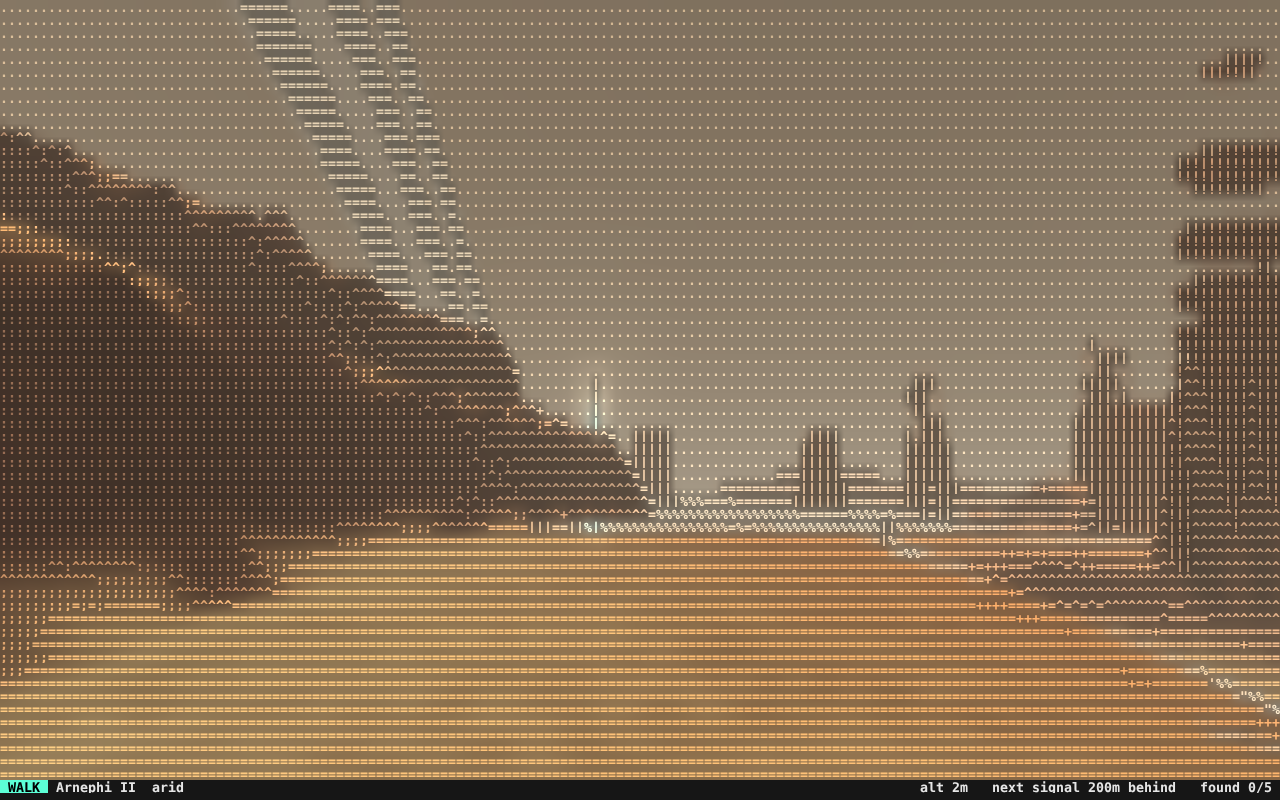
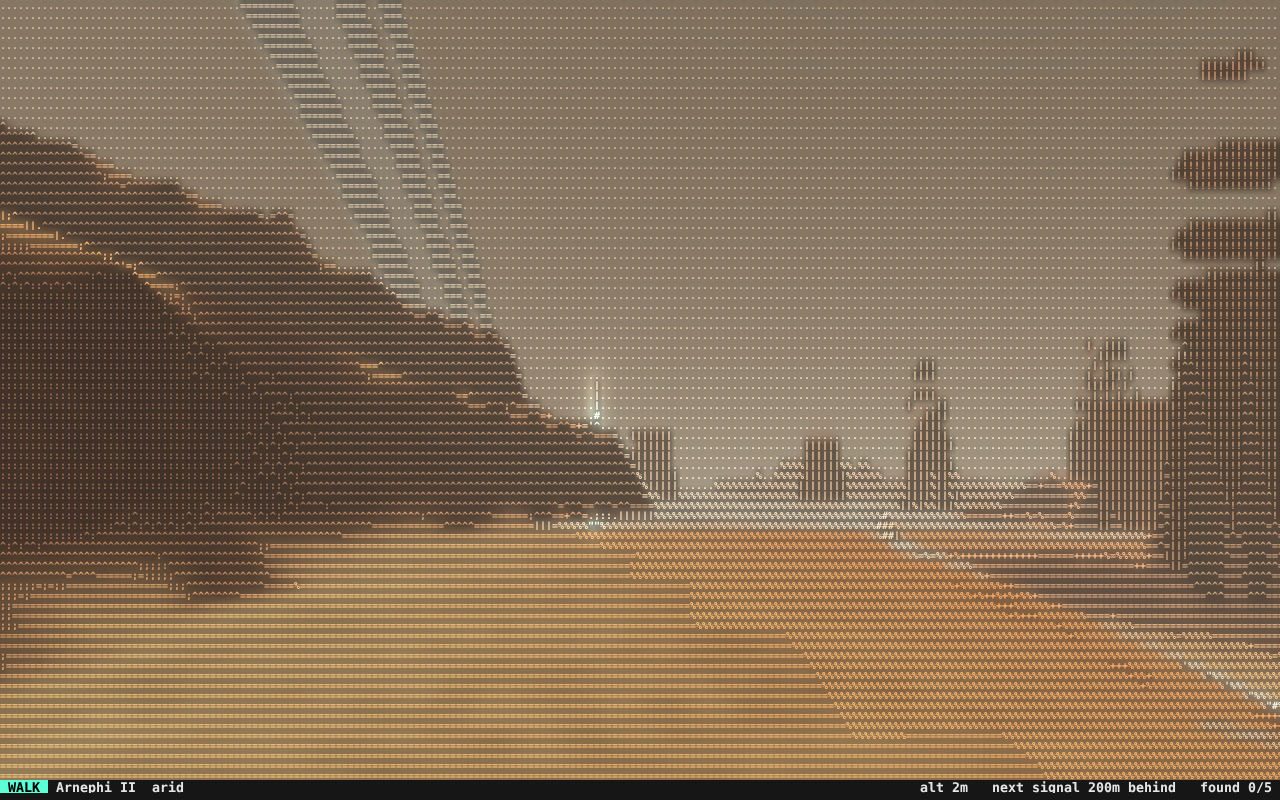
Smaller characters, with the interface on its own readable grid
- the picture's characters are 6px by default (5px on high-density
  screens), down from 8 and 7; - and = still change it, and a size you
  pick is never changed back by the slowdown guard
- the status line, messages and help sit on a separate 8px grid with
  their own font, so they stay readable however fine the picture gets
- on narrow screens the status line leaves out its least important
  parts instead of overlapping itself, and long messages wrap

diff --git a/index.html b/index.html
@@ -802,12 +802,12 @@ void main() {
 // pass 3: stamp the characters at full resolution, add bloom, lay the interface text on top
 const FINAL = `#version 300 es
 precision highp float;
-uniform sampler2D uScene, uC0, uC1, uGlow, uAtlas, uText;
-uniform vec2 uRes, uCell, uGrid, uAtlasGrid;
+uniform sampler2D uScene, uC0, uC1, uGlow, uAtlas, uText, uFont;
+uniform vec2 uRes, uCell, uGrid, uAtlasGrid, uTextCell;
 uniform float uRaw;
 out vec4 o;
 
-float ink(int g, vec2 f) { return texture(uAtlas, (vec2(float(g % 16), float(g / 16)) + f) / uAtlasGrid).r; }
+float ink(sampler2D atlas, int g, vec2 f) { return texture(atlas, (vec2(float(g % 16), float(g / 16)) + f) / uAtlasGrid).r; }
 
 void main() {
   vec2 px = vec2(gl_FragCoord.x, uRes.y - gl_FragCoord.y);
@@ -815,19 +815,20 @@ void main() {
   ivec2 ci = ivec2(cf.x, uGrid.y - 1. - floor(cf.y));
   vec2 uv = vec2(cf.x, uGrid.y - cf.y) / uGrid;
 
-  // text styles: 1 plain, 2 dim, 3 status bar, 4 highlighted block, 5 accent, 6 dim on the bar
-  ivec2 tx = ivec2(texelFetch(uText, ivec2(cf), 0).rg * 255. + .5);
+  // interface text, on its own grid. styles: 1 plain, 2 dim, 3 status bar, 4 highlighted block, 5 accent, 6 dim on the bar
+  vec2 tf = px / uTextCell;
+  ivec2 tx = ivec2(texelFetch(uText, ivec2(tf), 0).rg * 255. + .5);
   if (tx.y > 0) {
     const vec3 accent = vec3(.36, 1., .84);
     vec3 fg = tx.y == 2 || tx.y == 6 ? vec3(.46) : tx.y == 4 ? vec3(0.) : tx.y == 5 ? accent : vec3(.9);
     vec3 bg = tx.y == 4 ? accent : tx.y == 3 || tx.y == 6 ? vec3(.085) : vec3(0.);
-    o = vec4(mix(bg, fg, ink(tx.x, f)), 1.);
+    o = vec4(mix(bg, fg, ink(uFont, tx.x, fract(tf))), 1.);
     return;
   }
   if (uRaw > .5) { o = vec4(texture(uScene, uv).rgb, 1.); return; }
   vec4 a = texelFetch(uC0, ci, 0);
   // the colour behind the characters is blended between cell centres, so it has no steps
-  vec3 col = mix(texture(uC1, uv).rgb, a.rgb, ink(int(a.a * 255. + .5), f));
+  vec3 col = mix(texture(uC1, uv).rgb, a.rgb, ink(uAtlas, int(a.a * 255. + .5), f));
   col += textureLod(uGlow, uv, 1.).rgb * .45 + textureLod(uGlow, uv, 2.5).rgb * .35 + textureLod(uGlow, uv, 4.).rgb * .25;
   o = vec4(col, 1.);
 }`;
@@ -845,6 +846,7 @@ texture(11, gl.TEXTURE_CUBE_MAP, gl.NEAREST);                // material
 texture(12, gl.TEXTURE_2D, gl.NEAREST);                      // character per material and brightness
 texture(13, gl.TEXTURE_2D, gl.NEAREST);                      // interface text
 texture(14, gl.TEXTURE_2D, gl.NEAREST);                      // characters each material may use
+texture(15, gl.TEXTURE_2D, gl.NEAREST);                      // interface font
 gl.pixelStorei(gl.UNPACK_ALIGNMENT, 1);
 {
   const n = new Uint8Array(32 * 32 * 32), r = mulberry(7);
@@ -882,12 +884,13 @@ const EDGES = '_/\\|()\'",.^-~';
 const GLYPHS = [...new Set(RAMPS.join('') + EDGES)].join('');
 const FONT = GLYPHS + Array.from({ length: 95 }, (_, i) => String.fromCharCode(32 + i)).filter(c => !GLYPHS.includes(c)).join('');
 const MONO = 'ui-monospace, SFMono-Regular, Menlo, Consolas, "DejaVu Sans Mono", monospace';
-const view = { size: 0, cw: 8, ch: 13, cols: 0, rows: 0, ss: 2, raw: false, ink: 1 };
-let text = new Uint8Array(0);   // glyph and style for every cell of interface text
+const view = { size: 0, picked: false, cw: 6, ch: 10, cols: 0, rows: 0, ss: 2, raw: false, ink: 1 };
+// interface text sits on its own, coarser grid so it stays readable however small the picture's characters are
+const tgrid = { cw: 8, ch: 13, cols: 0, rows: 0 };
+let text = new Uint8Array(0);   // glyph and style for every cell of the interface grid
 
-// draws the font into an atlas and measures how much ink each glyph puts in the six regions of its cell
-function buildAtlas() {
-  const { cw, ch } = view, n = GLYPHS.length;
+// draws FONT into a 16 x 6 atlas of cw x ch cells
+function drawFont(cw, ch) {
   const c = document.createElement('canvas');
   c.width = cw * 16; c.height = ch * 6;
   const g = c.getContext('2d', { willReadFrequently: true });
@@ -905,7 +908,13 @@ function buildAtlas() {
     g.fillText(FONT[i], x + cw / 2, y + base);
     g.restore();
   }
-  const img = g.getImageData(0, 0, c.width, c.height).data;
+  return c;
+}
+
+// builds the picture's atlas and measures how much ink each glyph puts in the six regions of its cell
+function buildAtlas() {
+  const { cw, ch } = view, n = GLYPHS.length, c = drawFont(cw, ch);
+  const img = c.getContext('2d').getImageData(0, 0, c.width, c.height).data;
   const shapes = new Float32Array(n * 6), mean = new Float32Array(n);
   let max = 0;
   for (let i = 0; i < n; i++) for (let k = 0; k < 6; k++) {
@@ -951,18 +960,24 @@ function buildAtlas() {
   upload(14, gl.RED, n, RAMPS.length, allow);
   gl.activeTexture(gl.TEXTURE9);
   gl.texImage2D(gl.TEXTURE_2D, 0, gl.RGBA8, gl.RGBA, gl.UNSIGNED_BYTE, c);
+  gl.activeTexture(gl.TEXTURE15);
+  gl.texImage2D(gl.TEXTURE_2D, 0, gl.RGBA8, gl.RGBA, gl.UNSIGNED_BYTE, drawFont(tgrid.cw, tgrid.ch));
 }
 
 function resize() {
   const dpr = Math.min(devicePixelRatio || 1, 2);
   canvas.width = Math.floor(innerWidth * dpr);
   canvas.height = Math.floor(innerHeight * dpr);
-  view.size = view.size || (dpr > 1.5 ? 7 : 8);
+  view.size = view.size || (dpr > 1.5 ? 5 : 6);
   view.cw = Math.round(view.size * dpr);
   view.ch = Math.round(view.cw * 1.6);
   view.cols = Math.ceil(canvas.width / view.cw);
   view.rows = Math.ceil(canvas.height / view.ch);
-  text = new Uint8Array(view.cols * view.rows * 2);
+  tgrid.cw = Math.round(8 * dpr);
+  tgrid.ch = Math.round(tgrid.cw * 1.6);
+  tgrid.cols = Math.ceil(canvas.width / tgrid.cw);
+  tgrid.rows = Math.ceil(canvas.height / tgrid.ch);
+  text = new Uint8Array(tgrid.cols * tgrid.rows * 2);
   const alloc = (unit, w, h) => {
     gl.activeTexture(gl.TEXTURE0 + unit);
     gl.texImage2D(gl.TEXTURE_2D, 0, gl.RGBA8, w, h, 0, gl.RGBA, gl.UNSIGNED_BYTE, null);
@@ -1119,8 +1134,10 @@ function press(k) {
   if (k === 'v') view.raw = !view.raw;
   if (k === 'm') mute();
   if (k === '-' || k === '_' || k === '=' || k === '+') {
-    view.size = clamp(view.size + (k === '-' || k === '_' ? 1 : -1), 4, 16);
+    view.size = clamp(view.size + (k === '-' || k === '_' ? 1 : -1), 3, 16);
+    view.picked = true;   // a size the player chose is never changed behind their back
     resize();
+    say(`${view.cols} x ${view.rows} characters`, 2);
   }
   if (mode !== 'fly' && mode !== 'walk') return;
   if (k === 'f') mode === 'fly' ? land() : board();
@@ -1328,12 +1345,13 @@ function drawScene() {
 function drawScreen() {
   const { cols, rows, cw, ch } = view, u = final.u;
   gl.activeTexture(gl.TEXTURE13);
-  gl.texImage2D(gl.TEXTURE_2D, 0, gl.RG8, cols, rows, 0, gl.RG, gl.UNSIGNED_BYTE, text);
+  gl.texImage2D(gl.TEXTURE_2D, 0, gl.RG8, tgrid.cols, tgrid.rows, 0, gl.RG, gl.UNSIGNED_BYTE, text);
   gl.bindFramebuffer(gl.FRAMEBUFFER, null);
   gl.viewport(0, 0, canvas.width, canvas.height);
   gl.useProgram(final.p);
-  gl.uniform1i(u.uScene, 4); gl.uniform1i(u.uC0, 6); gl.uniform1i(u.uC1, 7); gl.uniform1i(u.uGlow, 8); gl.uniform1i(u.uAtlas, 9); gl.uniform1i(u.uText, 13);
+  gl.uniform1i(u.uScene, 4); gl.uniform1i(u.uC0, 6); gl.uniform1i(u.uC1, 7); gl.uniform1i(u.uGlow, 8); gl.uniform1i(u.uAtlas, 9); gl.uniform1i(u.uText, 13); gl.uniform1i(u.uFont, 15);
   gl.uniform2f(u.uRes, canvas.width, canvas.height);
+  gl.uniform2f(u.uTextCell, tgrid.cw, tgrid.ch);
   gl.uniform2f(u.uCell, cw, ch);
   gl.uniform2f(u.uGrid, cols, rows);
   gl.uniform2f(u.uAtlasGrid, 16, 6);
@@ -1341,12 +1359,12 @@ function drawScreen() {
   gl.drawArrays(gl.TRIANGLES, 0, 3);
 }
 
-// interface text is written straight into the character grid
+// writes interface text into its grid
 function put(x, y, str, style = 1) {
-  if (y < 0 || y >= view.rows) return;
+  if (y < 0 || y >= tgrid.rows) return;
   for (let i = 0; i < str.length; i++) {
-    const cx = Math.round(x) + i, k = (y * view.cols + cx) * 2;
-    if (cx < 0 || cx >= view.cols) continue;
+    const cx = Math.round(x) + i, k = (y * tgrid.cols + cx) * 2;
+    if (cx < 0 || cx >= tgrid.cols) continue;
     text[k] = Math.max(FONT.indexOf(str[i]), 0);
     text[k + 1] = style;
   }
@@ -1358,11 +1376,11 @@ const HELP = [
   ['space c', 'up and down, jump'],
   ['q e', 'roll'],
   ['shift', 'boost, run'],
-  ['f', 'land and step out, board and lift off'],
+  ['f', 'land, or board the ship'],
   ['n', 'next planet'],
   ['p', 'save the view as a text file'],
   ['v', 'show the render under the text'],
-  ['- =', 'text size'],
+  ['- =', 'bigger or smaller characters'],
   ['m', 'sound'],
   ['i', 'frame rate'],
 ];
@@ -1377,34 +1395,61 @@ function nextSignal() {
   if (!near) return '';
   const r = sub(near.base, cam.pos), a = Math.atan2(dot(r, cam.right), dot(r, cam.fwd)) * 180 / Math.PI;
   const way = Math.abs(a) < 25 ? 'ahead' : Math.abs(a) > 140 ? 'behind' : a > 0 ? 'right' : 'left';
-  return `   next signal ${Math.round(best)}m ${way}`;
+  return `next signal ${Math.round(best)}m ${way}`;
+}
+
+// splits a message into lines no wider than width, at spaces
+function wrap(str, width) {
+  const lines = [];
+  let line = '';
+  for (const word of str.split(' ')) {
+    if (line && line.length + 1 + word.length > width) { lines.push(line); line = word; }
+    else line = line ? `${line} ${word}` : word;
+  }
+  if (line) lines.push(line);
+  return lines;
 }
 
 function drawText() {
-  const p = planet, cols = Math.floor(canvas.width / view.cw), bar = Math.floor(canvas.height / view.ch) - 1;
+  const p = planet, cols = Math.floor(canvas.width / tgrid.cw), bar = Math.floor(canvas.height / tgrid.ch) - 1;
   const playing = mode === 'fly' || mode === 'walk';
   text.fill(0);
 
   // one status line along the bottom, the way an editor does it
-  put(0, bar, ' '.repeat(view.cols), 3);
-  put(0, bar + 1, ' '.repeat(view.cols), 3);
+  put(0, bar, ' '.repeat(tgrid.cols), 3);
+  put(0, bar + 1, ' '.repeat(tgrid.cols), 3);
   const tag = mode === 'fly' ? ' FLY ' : mode === 'walk' ? ' WALK ' : ' planet.txt ';
   put(0, bar, tag, 4);
-  let left = ui.note, right = '';
+  // [text, side, importance]: on a narrow screen the least important parts are left out
+  let parts = [[ui.note, 0, 9]];
   if (mode !== 'loading') {
     const alt = len(cam.pos) - p.R - groundAt(norm(cam.pos)), speed = mode === 'fly' ? len(ship.vel) : 0;
-    left = `${p.name}  ${p.K.label}`;
-    right = !playing ? (touched ? 'tap to descend' : 'click to descend   n next planet   ? keys')
-          : `alt ${Math.round(alt)}m` + (mode === 'fly' ? `   ${Math.round(speed)}m/s` : '') + nextSignal() + `   found ${signals}/${p.beacons.length}`;
-    if (ui.stats) right += `   ${stats.fps}fps ${view.cols}x${view.rows}`;
+    parts = [[p.name, 0, 5], [p.K.label, 0, 1]];
+    if (!playing) parts.push(...(touched ? [['tap to descend', 1, 9]] : [['click to descend', 1, 9], ['n next planet', 1, 3], ['? keys', 1, 2]]));
+    else {
+      parts.push([`alt ${Math.round(alt)}m`, 1, 4]);
+      if (mode === 'fly') parts.push([`${Math.round(speed)}m/s`, 1, 3]);
+      const next = nextSignal();
+      if (next) parts.push([next, 1, 8]);
+      parts.push([`found ${signals}/${p.beacons.length}`, 1, 7]);
+    }
+    if (ui.stats) parts.push([`${stats.fps}fps ${view.cols}x${view.rows}`, 1, 6]);
   }
-  put(tag.length + 1, bar, left, 3);
-  put(cols - right.length - 1, bar, right, playing ? 3 : 6);
+  const side = n => parts.filter(q => q[1] === n).map(q => q[0]).join('   ');
+  while (parts.length && tag.length + side(0).length + side(1).length + 4 > cols) {
+    parts.splice(parts.indexOf(parts.reduce((a, b) => (b[2] < a[2] ? b : a))), 1);
+  }
+  put(tag.length + 1, bar, side(0), 3);
+  put(cols - side(1).length - 1, bar, side(1), playing ? 3 : 6);
 
-  if (time < ui.until) put((cols - ui.msg.length) / 2, bar - 2, ` ${ui.msg} `, ui.until - time < .6 ? 2 : 1);
+  if (time < ui.until) {
+    const lines = wrap(ui.msg, cols - 4);
+    lines.forEach((l, i) => put((cols - l.length) / 2 - 1, bar - 1 - lines.length + i, ` ${l} `, ui.until - time < .6 ? 2 : 1));
+  }
+  const wide = Math.max(...HELP.map(h => h[1].length)) + 1;
   if (ui.help) HELP.forEach(([k, what], i) => {
     put(2, 2 + i, ` ${k.padEnd(9)}`, 1);
-    put(12, 2 + i, ` ${what.padEnd(40)}`, 2);
+    put(12, 2 + i, ` ${what.padEnd(wide)}`, 2);
   });
 }
 
@@ -1484,8 +1529,9 @@ function frame(now) {
   if (stats.t >= .5) {
     stats.fps = Math.round(stats.frames / stats.t);
     // two bad seconds in a row: stop supersampling, then start using bigger characters
+    // (unless the player picked a size themselves)
     stats.slow = stats.fps < 40 && mode !== 'loading' ? stats.slow + 1 : 0;
-    if (stats.slow >= 4 && (view.ss > 1 || view.size < 12)) {
+    if (stats.slow >= 4 && (view.ss > 1 || (view.size < 12 && !view.picked))) {
       if (view.ss > 1) view.ss = 1; else view.size += 2;
       stats.slow = 0;
       resize();

diff --git a/README.md b/README.md
@@ -26,7 +26,7 @@ one is and which way to turn. That is the whole game; the rest is looking around
 | `N` | next planet |
 | `P` | save the view as a text file |
 | `V` | show the render under the text |
-| `-` `=` | text size |
+| `-` `=` | bigger or smaller characters |
 | `M` | sound |
 | `?` | keys |
 
